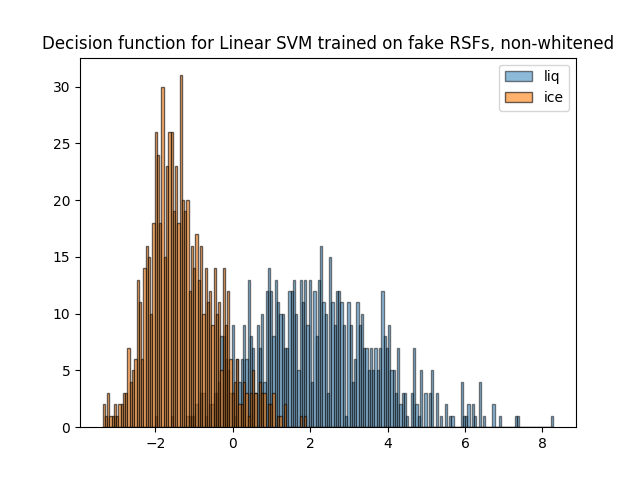
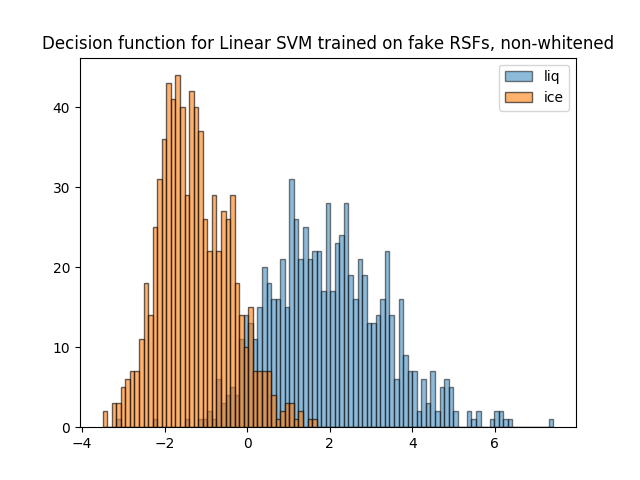
fewer bins in decision fxn hist

diff --git a/rsf_svm.py b/rsf_svm.py
@@ -111,7 +111,7 @@ plot_SVM_confidence(pseudo_X, y_train,
                     sep_val_confidence=True,
                     #X_val=pseudo_scaler.transform(X_val), y_val=y_val, 
                     X_val=X_val, y_val=y_val, 
-                    nbins=200,
+                    #nbins=200,
                     fname="fake_confidence_no_whiten.png", 
                     title="Decision function for Linear SVM trained on fake RSFs, non-whitened")
 #plot_SVM_confidence(X_train, y_train,
